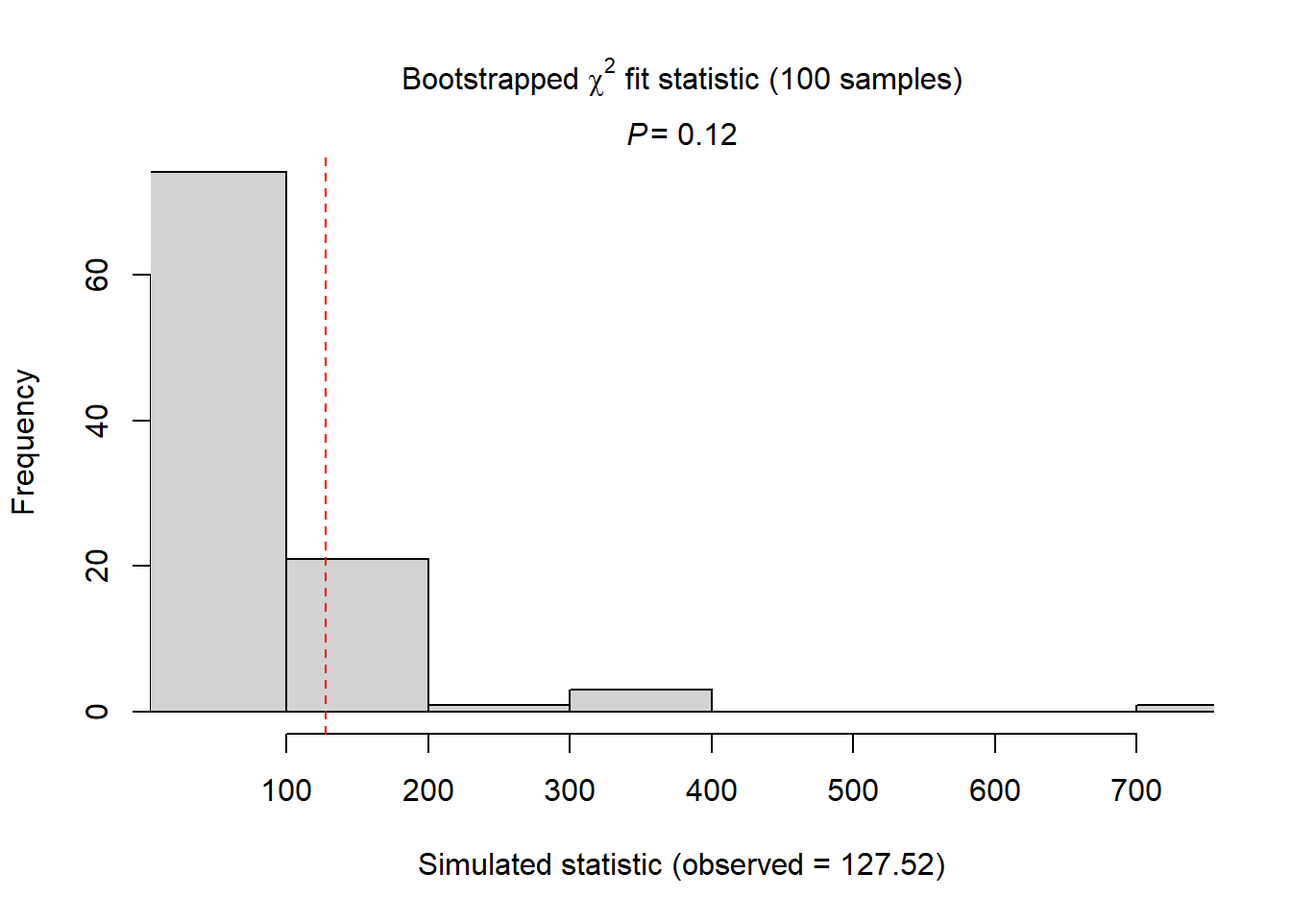
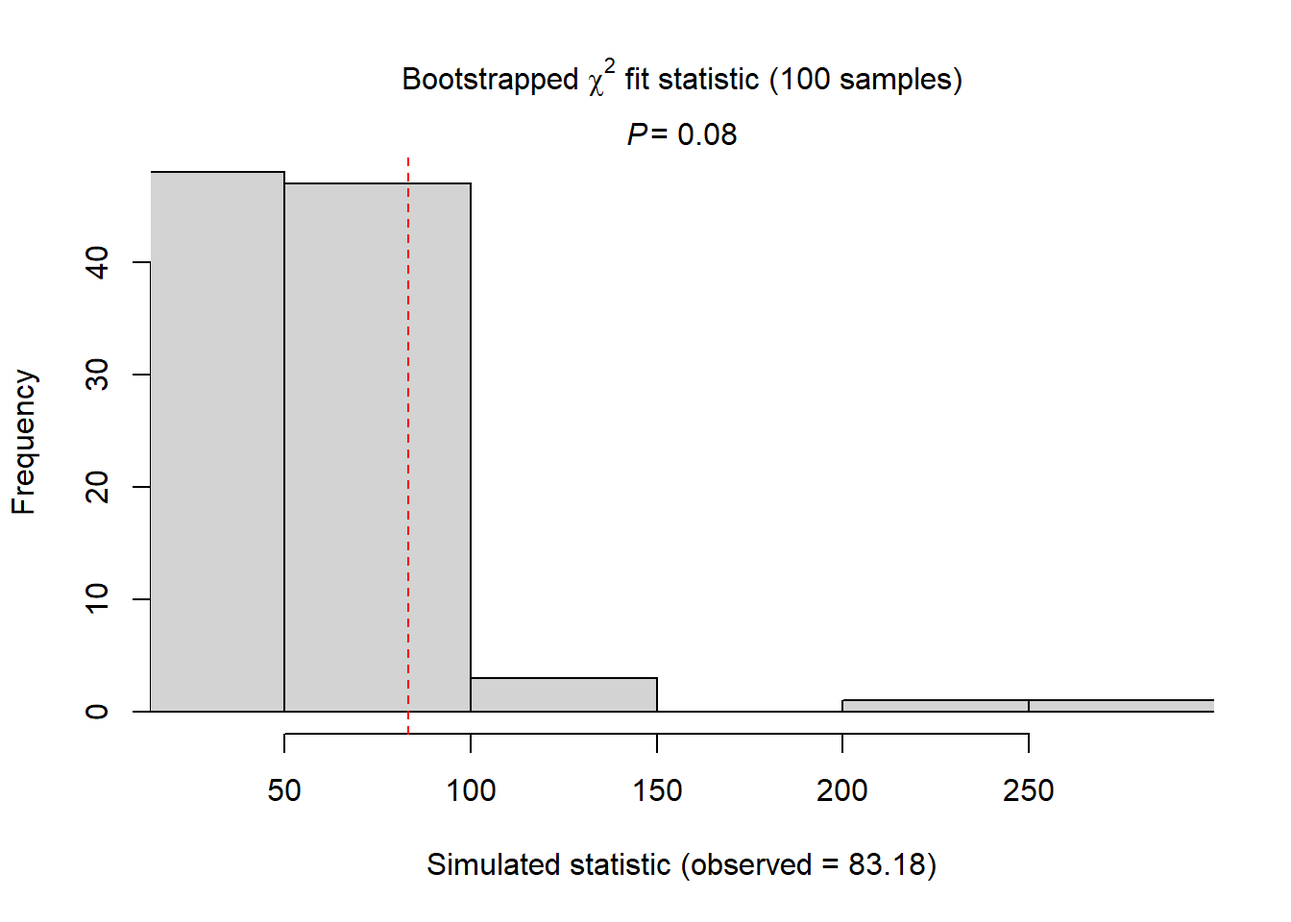
Cuatro

diff --git a/docs/Clase4.html b/docs/Clase4.html
@@ -120,7 +120,7 @@ pre > code.sourceCode > span > a:first-child::before { text-decoration: underlin
 <span id="cb2-5"><a href="#cb2-5" aria-hidden="true" tabindex="-1"></a>PaisajeMetricas <span class="ot">&lt;-</span> <span class="fu">readRDS</span>(<span class="st">"data/Paisaje250.rds"</span>)</span></code><button title="Copy to Clipboard" class="code-copy-button"><i class="bi"></i></button></pre></div>
 </div>
 <div class="tabset-margin-container"></div><div class="panel-tabset">
-<ul class="nav nav-tabs" role="tablist"><li class="nav-item" role="presentation"><a class="nav-link active" id="tabset-1-1-tab" data-bs-toggle="tab" data-bs-target="#tabset-1-1" role="tab" aria-controls="tabset-1-1" aria-selected="true" href="">Procesar base de datos</a></li><li class="nav-item" role="presentation"><a class="nav-link" id="tabset-1-2-tab" data-bs-toggle="tab" data-bs-target="#tabset-1-2" role="tab" aria-controls="tabset-1-2" aria-selected="false" href="">Agragar covariables de paisaje</a></li><li class="nav-item" role="presentation"><a class="nav-link" id="tabset-1-3-tab" data-bs-toggle="tab" data-bs-target="#tabset-1-3" role="tab" aria-controls="tabset-1-3" aria-selected="false" href="">Prepara data en formato unmarked</a></li><li class="nav-item" role="presentation"><a class="nav-link" id="tabset-1-4-tab" data-bs-toggle="tab" data-bs-target="#tabset-1-4" role="tab" aria-controls="tabset-1-4" aria-selected="false" href="">Fit model</a></li><li class="nav-item" role="presentation"><a class="nav-link" id="tabset-1-5-tab" data-bs-toggle="tab" data-bs-target="#tabset-1-5" role="tab" aria-controls="tabset-1-5" aria-selected="false" href="">Seleccionar modelo mas adecuado</a></li><li class="nav-item" role="presentation"><a class="nav-link" id="tabset-1-6-tab" data-bs-toggle="tab" data-bs-target="#tabset-1-6" role="tab" aria-controls="tabset-1-6" aria-selected="false" href="">Validar modelo</a></li><li class="nav-item" role="presentation"><a class="nav-link" id="tabset-1-7-tab" data-bs-toggle="tab" data-bs-target="#tabset-1-7" role="tab" aria-controls="tabset-1-7" aria-selected="false" href="">Revisar resultados</a></li><li class="nav-item" role="presentation"><a class="nav-link" id="tabset-1-8-tab" data-bs-toggle="tab" data-bs-target="#tabset-1-8" role="tab" aria-controls="tabset-1-8" aria-selected="false" href="">Prepara para graficar</a></li><li class="nav-item" role="presentation"><a class="nav-link" id="tabset-1-9-tab" data-bs-toggle="tab" data-bs-target="#tabset-1-9" role="tab" aria-controls="tabset-1-9" aria-selected="false" href="">Graficar</a></li></ul>
+<ul class="nav nav-tabs" role="tablist"><li class="nav-item" role="presentation"><a class="nav-link active" id="tabset-1-1-tab" data-bs-toggle="tab" data-bs-target="#tabset-1-1" role="tab" aria-controls="tabset-1-1" aria-selected="true" href="">Procesar base de datos</a></li><li class="nav-item" role="presentation"><a class="nav-link" id="tabset-1-2-tab" data-bs-toggle="tab" data-bs-target="#tabset-1-2" role="tab" aria-controls="tabset-1-2" aria-selected="false" href="">Agragar covariables de paisaje</a></li><li class="nav-item" role="presentation"><a class="nav-link" id="tabset-1-3-tab" data-bs-toggle="tab" data-bs-target="#tabset-1-3" role="tab" aria-controls="tabset-1-3" aria-selected="false" href="">Prepara data en formato unmarked</a></li><li class="nav-item" role="presentation"><a class="nav-link" id="tabset-1-4-tab" data-bs-toggle="tab" data-bs-target="#tabset-1-4" role="tab" aria-controls="tabset-1-4" aria-selected="false" href="">Fit model</a></li><li class="nav-item" role="presentation"><a class="nav-link" id="tabset-1-5-tab" data-bs-toggle="tab" data-bs-target="#tabset-1-5" role="tab" aria-controls="tabset-1-5" aria-selected="false" href="">Seleccionar modelo mas adecuado</a></li><li class="nav-item" role="presentation"><a class="nav-link" id="tabset-1-6-tab" data-bs-toggle="tab" data-bs-target="#tabset-1-6" role="tab" aria-controls="tabset-1-6" aria-selected="false" href="">Validar modelo</a></li><li class="nav-item" role="presentation"><a class="nav-link" id="tabset-1-7-tab" data-bs-toggle="tab" data-bs-target="#tabset-1-7" role="tab" aria-controls="tabset-1-7" aria-selected="false" href="">Revisar resultados</a></li><li class="nav-item" role="presentation"><a class="nav-link" id="tabset-1-8-tab" data-bs-toggle="tab" data-bs-target="#tabset-1-8" role="tab" aria-controls="tabset-1-8" aria-selected="false" href="">Prepara para graficar abundancia</a></li><li class="nav-item" role="presentation"><a class="nav-link" id="tabset-1-9-tab" data-bs-toggle="tab" data-bs-target="#tabset-1-9" role="tab" aria-controls="tabset-1-9" aria-selected="false" href="">Graficar</a></li></ul>
 <div class="tab-content">
 <div id="tabset-1-1" class="tab-pane active" role="tabpanel" aria-labelledby="tabset-1-1-tab">
 <div class="cell">
@@ -217,102 +217,78 @@ using the `.groups` argument.</code></pre>
 <span id="cb15-6"><a href="#cb15-6" aria-hidden="true" tabindex="-1"></a></span>
 <span id="cb15-7"><a href="#cb15-7" aria-hidden="true" tabindex="-1"></a>Insectivoras3<span class="sc">$</span>Longitud <span class="ot">&lt;-</span> <span class="fu">c</span>(<span class="dv">100</span>)</span>
 <span id="cb15-8"><a href="#cb15-8" aria-hidden="true" tabindex="-1"></a></span>
-<span id="cb15-9"><a href="#cb15-9" aria-hidden="true" tabindex="-1"></a>InsectivorasUMF <span class="ot">&lt;-</span> <span class="fu">unmarkedFrameDS</span>(<span class="at">y=</span> y ,</span>
+<span id="cb15-9"><a href="#cb15-9" aria-hidden="true" tabindex="-1"></a>InsectivorasUMF <span class="ot">&lt;-</span> <span class="fu">unmarkedFrameGDS</span>(<span class="at">y=</span> y ,</span>
 <span id="cb15-10"><a href="#cb15-10" aria-hidden="true" tabindex="-1"></a>                                   <span class="at">siteCovs =</span> SiteCovs,</span>
 <span id="cb15-11"><a href="#cb15-11" aria-hidden="true" tabindex="-1"></a>                                   <span class="at">dist.breaks =</span> <span class="fu">seq</span>(<span class="dv">0</span>, <span class="dv">35</span>, <span class="at">by=</span> <span class="dv">6</span>),</span>
 <span id="cb15-12"><a href="#cb15-12" aria-hidden="true" tabindex="-1"></a>                                   <span class="at">survey =</span> <span class="st">"line"</span>,</span>
 <span id="cb15-13"><a href="#cb15-13" aria-hidden="true" tabindex="-1"></a>                                   <span class="at">unitsIn =</span> <span class="st">"m"</span>,</span>
-<span id="cb15-14"><a href="#cb15-14" aria-hidden="true" tabindex="-1"></a>                                   <span class="at">tlength =</span> Insectivoras3<span class="sc">$</span>Longitud)</span></code><button title="Copy to Clipboard" class="code-copy-button"><i class="bi"></i></button></pre></div>
+<span id="cb15-14"><a href="#cb15-14" aria-hidden="true" tabindex="-1"></a>                                   <span class="at">tlength =</span> Insectivoras3<span class="sc">$</span>Longitud,</span>
+<span id="cb15-15"><a href="#cb15-15" aria-hidden="true" tabindex="-1"></a>                                   <span class="at">numPrimary =</span> <span class="dv">1</span>)</span></code><button title="Copy to Clipboard" class="code-copy-button"><i class="bi"></i></button></pre></div>
 </div>
 </div>
 <div id="tabset-1-4" class="tab-pane" role="tabpanel" aria-labelledby="tabset-1-4-tab">
 <div class="cell">
-<div class="sourceCode cell-code" id="cb16"><pre class="sourceCode r code-with-copy"><code class="sourceCode r"><span id="cb16-1"><a href="#cb16-1" aria-hidden="true" tabindex="-1"></a>fmp1 <span class="ot">&lt;-</span> <span class="fu">distsamp</span>(<span class="sc">~</span> <span class="dv">1</span> <span class="sc">~</span> <span class="dv">1</span>, InsectivorasUMF)</span>
+<div class="sourceCode cell-code" id="cb16"><pre class="sourceCode r code-with-copy"><code class="sourceCode r"><span id="cb16-1"><a href="#cb16-1" aria-hidden="true" tabindex="-1"></a>fmp1 <span class="ot">&lt;-</span> <span class="fu">gdistsamp</span>(<span class="sc">~</span>Forest, <span class="sc">~</span> <span class="dv">1</span>, <span class="sc">~</span> <span class="dv">1</span>, <span class="at">keyfun =</span> <span class="st">"halfnorm"</span>, <span class="at">output =</span> <span class="st">"density"</span>, <span class="at">unitsOut =</span> <span class="st">"ha"</span>,  InsectivorasUMF)</span>
 <span id="cb16-2"><a href="#cb16-2" aria-hidden="true" tabindex="-1"></a></span>
-<span id="cb16-3"><a href="#cb16-3" aria-hidden="true" tabindex="-1"></a>fmp2 <span class="ot">&lt;-</span> <span class="fu">distsamp</span>(<span class="sc">~</span> <span class="dv">1</span> <span class="sc">~</span> Forest, <span class="at">keyfun =</span> <span class="st">"halfnorm"</span>, <span class="at">output =</span> <span class="st">"density"</span>, <span class="at">unitsOut =</span> <span class="st">"ha"</span>,  InsectivorasUMF)</span></code><button title="Copy to Clipboard" class="code-copy-button"><i class="bi"></i></button></pre></div>
-<div class="cell-output cell-output-stderr">
-<pre><code>Warning: Some observations have been discarded because corresponding covariates
-were missing.</code></pre>
-</div>
-<div class="cell-output cell-output-stderr">
-<pre><code>Warning: 1 sites have been discarded because of missing data.</code></pre>
-</div>
-<div class="sourceCode cell-code" id="cb19"><pre class="sourceCode r code-with-copy"><code class="sourceCode r"><span id="cb19-1"><a href="#cb19-1" aria-hidden="true" tabindex="-1"></a>fmp3 <span class="ot">&lt;-</span> <span class="fu">distsamp</span>(<span class="sc">~</span> <span class="dv">1</span> <span class="sc">~</span> Forest, <span class="at">keyfun =</span> <span class="st">"hazard"</span>, <span class="at">output =</span> <span class="st">"density"</span>, <span class="at">unitsOut =</span> <span class="st">"ha"</span>, InsectivorasUMF)</span></code><button title="Copy to Clipboard" class="code-copy-button"><i class="bi"></i></button></pre></div>
-<div class="cell-output cell-output-stderr">
-<pre><code>Warning: Some observations have been discarded because corresponding covariates
-were missing.
-Warning: 1 sites have been discarded because of missing data.</code></pre>
-</div>
-<div class="sourceCode cell-code" id="cb21"><pre class="sourceCode r code-with-copy"><code class="sourceCode r"><span id="cb21-1"><a href="#cb21-1" aria-hidden="true" tabindex="-1"></a>fmp4 <span class="ot">&lt;-</span> <span class="fu">distsamp</span>(<span class="sc">~</span> <span class="dv">1</span> <span class="sc">~</span> Forest, <span class="at">keyfun =</span> <span class="st">"exp"</span>, <span class="at">output =</span> <span class="st">"density"</span>, <span class="at">unitsOut =</span> <span class="st">"ha"</span>, InsectivorasUMF)</span></code><button title="Copy to Clipboard" class="code-copy-button"><i class="bi"></i></button></pre></div>
-<div class="cell-output cell-output-stderr">
-<pre><code>Warning: Some observations have been discarded because corresponding covariates
-were missing.
-Warning: 1 sites have been discarded because of missing data.</code></pre>
-</div>
-<div class="sourceCode cell-code" id="cb23"><pre class="sourceCode r code-with-copy"><code class="sourceCode r"><span id="cb23-1"><a href="#cb23-1" aria-hidden="true" tabindex="-1"></a>fmp5 <span class="ot">&lt;-</span> <span class="fu">distsamp</span>(<span class="sc">~</span> <span class="dv">1</span> <span class="sc">~</span> Forest, <span class="at">keyfun =</span> <span class="st">"uniform"</span>, <span class="at">output =</span> <span class="st">"density"</span>, <span class="at">unitsOut =</span> <span class="st">"ha"</span>, InsectivorasUMF)</span></code><button title="Copy to Clipboard" class="code-copy-button"><i class="bi"></i></button></pre></div>
-<div class="cell-output cell-output-stderr">
-<pre><code>Warning: Some observations have been discarded because corresponding covariates
-were missing.
-Warning: 1 sites have been discarded because of missing data.</code></pre>
-</div>
+<span id="cb16-3"><a href="#cb16-3" aria-hidden="true" tabindex="-1"></a>fmp2 <span class="ot">&lt;-</span> <span class="fu">gdistsamp</span>(<span class="sc">~</span>Forest, <span class="sc">~</span> <span class="dv">1</span>, <span class="sc">~</span> <span class="dv">1</span>, <span class="at">keyfun =</span> <span class="st">"hazard"</span>, <span class="at">output =</span> <span class="st">"density"</span>, <span class="at">unitsOut =</span> <span class="st">"ha"</span>, InsectivorasUMF)</span>
+<span id="cb16-4"><a href="#cb16-4" aria-hidden="true" tabindex="-1"></a></span>
+<span id="cb16-5"><a href="#cb16-5" aria-hidden="true" tabindex="-1"></a>fmp3 <span class="ot">&lt;-</span> <span class="fu">gdistsamp</span>(<span class="sc">~</span>Forest, <span class="sc">~</span> <span class="dv">1</span>, <span class="sc">~</span> <span class="dv">1</span>, <span class="at">keyfun =</span> <span class="st">"exp"</span>, <span class="at">output =</span> <span class="st">"density"</span>, <span class="at">unitsOut =</span> <span class="st">"ha"</span>, InsectivorasUMF)</span></code><button title="Copy to Clipboard" class="code-copy-button"><i class="bi"></i></button></pre></div>
 </div>
 </div>
 <div id="tabset-1-5" class="tab-pane" role="tabpanel" aria-labelledby="tabset-1-5-tab">
 <div class="cell">
-<div class="sourceCode cell-code" id="cb25"><pre class="sourceCode r code-with-copy"><code class="sourceCode r"><span id="cb25-1"><a href="#cb25-1" aria-hidden="true" tabindex="-1"></a>Modelos <span class="ot">&lt;-</span> <span class="fu">list</span>(fmp1, fmp2, fmp3, fmp4, fmp5)</span>
-<span id="cb25-2"><a href="#cb25-2" aria-hidden="true" tabindex="-1"></a>Nombres <span class="ot">&lt;-</span> <span class="fu">c</span>(<span class="st">"fmp1"</span>, <span class="st">"fmp2"</span>, <span class="st">"fmp3"</span>, <span class="st">"fmp4"</span>, <span class="st">"fmp5"</span>)</span>
-<span id="cb25-3"><a href="#cb25-3" aria-hidden="true" tabindex="-1"></a></span>
-<span id="cb25-4"><a href="#cb25-4" aria-hidden="true" tabindex="-1"></a><span class="fu">aictab</span>(Modelos, Nombres, <span class="at">sort =</span> <span class="cn">TRUE</span>)</span></code><button title="Copy to Clipboard" class="code-copy-button"><i class="bi"></i></button></pre></div>
+<div class="sourceCode cell-code" id="cb17"><pre class="sourceCode r code-with-copy"><code class="sourceCode r"><span id="cb17-1"><a href="#cb17-1" aria-hidden="true" tabindex="-1"></a>Modelos <span class="ot">&lt;-</span> <span class="fu">list</span>(fmp1, fmp2, fmp3)</span>
+<span id="cb17-2"><a href="#cb17-2" aria-hidden="true" tabindex="-1"></a>Nombres <span class="ot">&lt;-</span> <span class="fu">c</span>(<span class="st">"fmp1"</span>, <span class="st">"fmp2"</span>, <span class="st">"fmp3"</span>)</span>
+<span id="cb17-3"><a href="#cb17-3" aria-hidden="true" tabindex="-1"></a></span>
+<span id="cb17-4"><a href="#cb17-4" aria-hidden="true" tabindex="-1"></a><span class="fu">aictab</span>(Modelos, Nombres, <span class="at">sort =</span> <span class="cn">TRUE</span>)</span></code><button title="Copy to Clipboard" class="code-copy-button"><i class="bi"></i></button></pre></div>
 <div class="cell-output cell-output-stdout">
 <pre><code>
 Model selection based on AICc:
 
-     K   AICc Delta_AICc AICcWt Cum.Wt     LL
-fmp2 3 113.03       0.00   0.56   0.56 -52.88
-fmp4 3 113.89       0.86   0.37   0.93 -53.31
-fmp3 4 117.22       4.19   0.07   1.00 -53.50
-fmp1 2 124.56      11.54   0.00   1.00 -59.98
-fmp5 2 145.26      32.23   0.00   1.00 -70.33</code></pre>
+     K  AICc Delta_AICc AICcWt Cum.Wt     LL
+fmp1 3 92.70       0.00   0.56   0.56 -42.72
+fmp3 3 93.56       0.86   0.37   0.93 -43.15
+fmp2 4 96.89       4.19   0.07   1.00 -43.33</code></pre>
 </div>
 </div>
 </div>
 <div id="tabset-1-6" class="tab-pane" role="tabpanel" aria-labelledby="tabset-1-6-tab">
 <div class="cell">
-<div class="sourceCode cell-code" id="cb27"><pre class="sourceCode r code-with-copy"><code class="sourceCode r"><span id="cb27-1"><a href="#cb27-1" aria-hidden="true" tabindex="-1"></a>fitstats <span class="ot">&lt;-</span> <span class="cf">function</span>(Mod_global2) {</span>
-<span id="cb27-2"><a href="#cb27-2" aria-hidden="true" tabindex="-1"></a>  observed <span class="ot">&lt;-</span> <span class="fu">getY</span>(Mod_global2<span class="sc">@</span>data)</span>
-<span id="cb27-3"><a href="#cb27-3" aria-hidden="true" tabindex="-1"></a>  expected <span class="ot">&lt;-</span> <span class="fu">fitted</span>(Mod_global2)</span>
-<span id="cb27-4"><a href="#cb27-4" aria-hidden="true" tabindex="-1"></a>  resids <span class="ot">&lt;-</span> <span class="fu">residuals</span>(Mod_global2)</span>
-<span id="cb27-5"><a href="#cb27-5" aria-hidden="true" tabindex="-1"></a>  sse <span class="ot">&lt;-</span> <span class="fu">sum</span>(resids<span class="sc">^</span><span class="dv">2</span>,<span class="at">na.rm=</span><span class="cn">TRUE</span>)</span>
-<span id="cb27-6"><a href="#cb27-6" aria-hidden="true" tabindex="-1"></a>  chisq <span class="ot">&lt;-</span> <span class="fu">sum</span>((observed <span class="sc">-</span> expected)<span class="sc">^</span><span class="dv">2</span> <span class="sc">/</span> expected,<span class="at">na.rm=</span><span class="cn">TRUE</span>)</span>
-<span id="cb27-7"><a href="#cb27-7" aria-hidden="true" tabindex="-1"></a>  freeTuke <span class="ot">&lt;-</span> <span class="fu">sum</span>((<span class="fu">sqrt</span>(observed) <span class="sc">-</span> <span class="fu">sqrt</span>(expected))<span class="sc">^</span><span class="dv">2</span>,<span class="at">na.rm=</span><span class="cn">TRUE</span>)</span>
-<span id="cb27-8"><a href="#cb27-8" aria-hidden="true" tabindex="-1"></a>  out <span class="ot">&lt;-</span> <span class="fu">c</span>(<span class="at">SSE=</span>sse, <span class="at">Chisq=</span>chisq, <span class="at">freemanTukey=</span>freeTuke)</span>
-<span id="cb27-9"><a href="#cb27-9" aria-hidden="true" tabindex="-1"></a>  <span class="fu">return</span>(out)</span>
-<span id="cb27-10"><a href="#cb27-10" aria-hidden="true" tabindex="-1"></a>}</span>
-<span id="cb27-11"><a href="#cb27-11" aria-hidden="true" tabindex="-1"></a></span>
-<span id="cb27-12"><a href="#cb27-12" aria-hidden="true" tabindex="-1"></a>(pb <span class="ot">&lt;-</span> <span class="fu">parboot</span>(fmp2, fitstats, <span class="at">nsim=</span><span class="dv">100</span>, <span class="at">report=</span><span class="dv">1</span>))</span></code><button title="Copy to Clipboard" class="code-copy-button"><i class="bi"></i></button></pre></div>
+<div class="sourceCode cell-code" id="cb19"><pre class="sourceCode r code-with-copy"><code class="sourceCode r"><span id="cb19-1"><a href="#cb19-1" aria-hidden="true" tabindex="-1"></a>fitstats <span class="ot">&lt;-</span> <span class="cf">function</span>(Mod_global2) {</span>
+<span id="cb19-2"><a href="#cb19-2" aria-hidden="true" tabindex="-1"></a>  observed <span class="ot">&lt;-</span> <span class="fu">getY</span>(Mod_global2<span class="sc">@</span>data)</span>
+<span id="cb19-3"><a href="#cb19-3" aria-hidden="true" tabindex="-1"></a>  expected <span class="ot">&lt;-</span> <span class="fu">fitted</span>(Mod_global2)</span>
+<span id="cb19-4"><a href="#cb19-4" aria-hidden="true" tabindex="-1"></a>  resids <span class="ot">&lt;-</span> <span class="fu">residuals</span>(Mod_global2)</span>
+<span id="cb19-5"><a href="#cb19-5" aria-hidden="true" tabindex="-1"></a>  sse <span class="ot">&lt;-</span> <span class="fu">sum</span>(resids<span class="sc">^</span><span class="dv">2</span>,<span class="at">na.rm=</span><span class="cn">TRUE</span>)</span>
+<span id="cb19-6"><a href="#cb19-6" aria-hidden="true" tabindex="-1"></a>  chisq <span class="ot">&lt;-</span> <span class="fu">sum</span>((observed <span class="sc">-</span> expected)<span class="sc">^</span><span class="dv">2</span> <span class="sc">/</span> expected,<span class="at">na.rm=</span><span class="cn">TRUE</span>)</span>
+<span id="cb19-7"><a href="#cb19-7" aria-hidden="true" tabindex="-1"></a>  freeTuke <span class="ot">&lt;-</span> <span class="fu">sum</span>((<span class="fu">sqrt</span>(observed) <span class="sc">-</span> <span class="fu">sqrt</span>(expected))<span class="sc">^</span><span class="dv">2</span>,<span class="at">na.rm=</span><span class="cn">TRUE</span>)</span>
+<span id="cb19-8"><a href="#cb19-8" aria-hidden="true" tabindex="-1"></a>  out <span class="ot">&lt;-</span> <span class="fu">c</span>(<span class="at">SSE=</span>sse, <span class="at">Chisq=</span>chisq, <span class="at">freemanTukey=</span>freeTuke)</span>
+<span id="cb19-9"><a href="#cb19-9" aria-hidden="true" tabindex="-1"></a>  <span class="fu">return</span>(out)</span>
+<span id="cb19-10"><a href="#cb19-10" aria-hidden="true" tabindex="-1"></a>}</span>
+<span id="cb19-11"><a href="#cb19-11" aria-hidden="true" tabindex="-1"></a></span>
+<span id="cb19-12"><a href="#cb19-12" aria-hidden="true" tabindex="-1"></a>(pb <span class="ot">&lt;-</span> <span class="fu">parboot</span>(fmp1, fitstats, <span class="at">nsim=</span><span class="dv">100</span>, <span class="at">report=</span><span class="dv">1</span>))</span></code><button title="Copy to Clipboard" class="code-copy-button"><i class="bi"></i></button></pre></div>
 <div class="cell-output cell-output-stdout">
 <pre><code>
-Call: parboot(object = fmp2, statistic = fitstats, nsim = 100, report = 1)
+Call: parboot(object = fmp1, statistic = fitstats, nsim = 100, report = 1)
 
 Parametric Bootstrap Statistics:
-                t0 mean(t0 - t_B) StdDev(t0 - t_B) Pr(t_B &gt; t0)
-SSE           51.2          27.36             8.10       0.0099
-Chisq        127.5          46.63            32.13       0.0495
-freemanTukey  22.5           4.55             2.95       0.0594
+               t0 mean(t0 - t_B) StdDev(t0 - t_B) Pr(t_B &gt; t0)
+SSE          57.6          25.97             9.23       0.0099
+Chisq        83.2          28.45            24.11       0.0495
+freemanTukey 31.2           5.57             3.82       0.0990
 
 t_B quantiles:
-               0% 2.5% 25% 50% 75% 97.5% 100%
-SSE           9.3   13  18  22  28    44   55
-Chisq        31.1   43  61  74  93   161  253
-freemanTukey 11.2   13  16  18  20    24   27
+             0% 2.5% 25% 50% 75% 97.5% 100%
+SSE          16   18  24  31  39    52   58
+Chisq        28   34  43  51  62    94  246
+freemanTukey 15   19  23  25  28    34   35
 
 t0 = Original statistic computed from data
 t_B = Vector of bootstrap samples</code></pre>
 </div>
-<div class="sourceCode cell-code" id="cb29"><pre class="sourceCode r code-with-copy"><code class="sourceCode r"><span id="cb29-1"><a href="#cb29-1" aria-hidden="true" tabindex="-1"></a>cHat_pb <span class="ot">&lt;-</span> pb<span class="sc">@</span>t0[<span class="dv">2</span>] <span class="sc">/</span> <span class="fu">mean</span>(pb<span class="sc">@</span>t.star[,<span class="dv">2</span>])</span>
-<span id="cb29-2"><a href="#cb29-2" aria-hidden="true" tabindex="-1"></a></span>
-<span id="cb29-3"><a href="#cb29-3" aria-hidden="true" tabindex="-1"></a></span>
-<span id="cb29-4"><a href="#cb29-4" aria-hidden="true" tabindex="-1"></a>MigGOF <span class="ot">&lt;-</span> <span class="fu">Nmix.gof.test</span>(fmp2, <span class="at">nsim =</span> <span class="dv">100</span>, <span class="at">report =</span> <span class="dv">3</span>)</span></code><button title="Copy to Clipboard" class="code-copy-button"><i class="bi"></i></button></pre></div>
+<div class="sourceCode cell-code" id="cb21"><pre class="sourceCode r code-with-copy"><code class="sourceCode r"><span id="cb21-1"><a href="#cb21-1" aria-hidden="true" tabindex="-1"></a>cHat_pb <span class="ot">&lt;-</span> pb<span class="sc">@</span>t0[<span class="dv">2</span>] <span class="sc">/</span> <span class="fu">mean</span>(pb<span class="sc">@</span>t.star[,<span class="dv">2</span>])</span>
+<span id="cb21-2"><a href="#cb21-2" aria-hidden="true" tabindex="-1"></a></span>
+<span id="cb21-3"><a href="#cb21-3" aria-hidden="true" tabindex="-1"></a></span>
+<span id="cb21-4"><a href="#cb21-4" aria-hidden="true" tabindex="-1"></a>MigGOF <span class="ot">&lt;-</span> <span class="fu">Nmix.gof.test</span>(fmp1, <span class="at">nsim =</span> <span class="dv">100</span>, <span class="at">report =</span> <span class="dv">3</span>)</span></code><button title="Copy to Clipboard" class="code-copy-button"><i class="bi"></i></button></pre></div>
 <div class="cell-output-display">
 <div>
 <figure class="figure">
@@ -324,14 +300,15 @@ t_B = Vector of bootstrap samples</code></pre>
 </div>
 <div id="tabset-1-7" class="tab-pane" role="tabpanel" aria-labelledby="tabset-1-7-tab">
 <div class="cell">
-<div class="sourceCode cell-code" id="cb30"><pre class="sourceCode r code-with-copy"><code class="sourceCode r"><span id="cb30-1"><a href="#cb30-1" aria-hidden="true" tabindex="-1"></a><span class="fu">summary</span>(fmp2)</span></code><button title="Copy to Clipboard" class="code-copy-button"><i class="bi"></i></button></pre></div>
+<div class="sourceCode cell-code" id="cb22"><pre class="sourceCode r code-with-copy"><code class="sourceCode r"><span id="cb22-1"><a href="#cb22-1" aria-hidden="true" tabindex="-1"></a><span class="fu">summary</span>(fmp1)</span></code><button title="Copy to Clipboard" class="code-copy-button"><i class="bi"></i></button></pre></div>
 <div class="cell-output cell-output-stdout">
 <pre><code>
 Call:
-distsamp(formula = ~1 ~ Forest, data = InsectivorasUMF, keyfun = "halfnorm", 
-    output = "density", unitsOut = "ha")
+gdistsamp(lambdaformula = ~Forest, phiformula = ~1, pformula = ~1, 
+    data = InsectivorasUMF, keyfun = "halfnorm", output = "density", 
+    unitsOut = "ha")
 
-Density (log-scale):
+Abundance (log-scale):
             Estimate     SE     z  P(&gt;|z|)
 (Intercept)    2.655 0.4573  5.81 6.38e-09
 Forest        -0.128 0.0686 -1.87 6.21e-02
@@ -340,56 +317,41 @@ Detection (log-scale):
  Estimate   SE  z  P(&gt;|z|)
      1.95 0.15 13 1.84e-38
 
-AIC: 111.7647 
+AIC: 91.43912 
 Number of sites: 22
 ID of sites removed due to NA: 6
 optim convergence code: 0
 optim iterations: 29 
-Bootstrap iterations: 0 
-
-Survey design: line-transect
-Detection function: halfnorm
-UnitsIn: m
-UnitsOut: ha </code></pre>
+Bootstrap iterations: 0 </code></pre>
 </div>
-<div class="sourceCode cell-code" id="cb32"><pre class="sourceCode r code-with-copy"><code class="sourceCode r"><span id="cb32-1"><a href="#cb32-1" aria-hidden="true" tabindex="-1"></a><span class="fu">confint</span>(fmp2, <span class="at">type =</span> <span class="st">"state"</span>, <span class="at">level=</span> <span class="fl">0.95</span>)</span></code><button title="Copy to Clipboard" class="code-copy-button"><i class="bi"></i></button></pre></div>
+<div class="sourceCode cell-code" id="cb24"><pre class="sourceCode r code-with-copy"><code class="sourceCode r"><span id="cb24-1"><a href="#cb24-1" aria-hidden="true" tabindex="-1"></a><span class="fu">confint</span>(fmp1, <span class="at">type =</span> <span class="st">"lambda"</span>, <span class="at">level=</span> <span class="fl">0.95</span>)</span></code><button title="Copy to Clipboard" class="code-copy-button"><i class="bi"></i></button></pre></div>
 <div class="cell-output cell-output-stdout">
-<pre><code>                 0.025       0.975
-lam(Int)     1.7590516 3.551649571
-lam(Forest) -0.2622657 0.006459997</code></pre>
+<pre><code>                    0.025       0.975
+lambda(Int)     1.7590516 3.551649572
+lambda(Forest) -0.2622657 0.006459997</code></pre>
 </div>
-<div class="sourceCode cell-code" id="cb34"><pre class="sourceCode r code-with-copy"><code class="sourceCode r"><span id="cb34-1"><a href="#cb34-1" aria-hidden="true" tabindex="-1"></a><span class="fu">exp</span>(<span class="fu">coef</span>(fmp2, <span class="at">type=</span><span class="st">"state"</span>, <span class="at">altNames=</span><span class="cn">TRUE</span>))</span></code><button title="Copy to Clipboard" class="code-copy-button"><i class="bi"></i></button></pre></div>
+<div class="sourceCode cell-code" id="cb26"><pre class="sourceCode r code-with-copy"><code class="sourceCode r"><span id="cb26-1"><a href="#cb26-1" aria-hidden="true" tabindex="-1"></a><span class="fu">exp</span>(<span class="fu">coef</span>(fmp1, <span class="at">type=</span><span class="st">"lambda"</span>, <span class="at">altNames=</span><span class="cn">TRUE</span>))</span></code><button title="Copy to Clipboard" class="code-copy-button"><i class="bi"></i></button></pre></div>
 <div class="cell-output cell-output-stdout">
-<pre><code>   lam(Int) lam(Forest) 
- 14.2299743   0.8799389 </code></pre>
-</div>
-<div class="sourceCode cell-code" id="cb36"><pre class="sourceCode r code-with-copy"><code class="sourceCode r"><span id="cb36-1"><a href="#cb36-1" aria-hidden="true" tabindex="-1"></a><span class="fu">hist</span>(fmp2, <span class="at">ylim =</span> <span class="fu">c</span>(<span class="dv">0</span>, <span class="fl">0.1</span>), <span class="at">xlab=</span><span class="st">"Distance (m)"</span>)   <span class="co"># Only works when there are no det covars</span></span></code><button title="Copy to Clipboard" class="code-copy-button"><i class="bi"></i></button></pre></div>
-<div class="cell-output-display">
-<div>
-<figure class="figure">
-<p><img src="Clase4_files/figure-html/unnamed-chunk-11-1.png" class="img-fluid figure-img" width="672"></p>
-</figure>
-</div>
+<pre><code>   lambda(Int) lambda(Forest) 
+    14.2299743      0.8799389 </code></pre>
 </div>
 </div>
 </div>
 <div id="tabset-1-8" class="tab-pane" role="tabpanel" aria-labelledby="tabset-1-8-tab">
 <div class="cell">
-<div class="sourceCode cell-code" id="cb37"><pre class="sourceCode r code-with-copy"><code class="sourceCode r"><span id="cb37-1"><a href="#cb37-1" aria-hidden="true" tabindex="-1"></a>Forest <span class="ot">&lt;-</span> <span class="fu">data.frame</span>(<span class="at">Forest =</span> <span class="fu">seq</span>(<span class="fu">min</span>(Insectivoras3<span class="sc">$</span>Forest, <span class="at">na.rm =</span> <span class="cn">TRUE</span>), <span class="fu">max</span>(Insectivoras3<span class="sc">$</span>Forest, <span class="at">na.rm =</span> <span class="cn">TRUE</span>), <span class="at">length.out =</span> <span class="dv">100</span>))</span>
-<span id="cb37-2"><a href="#cb37-2" aria-hidden="true" tabindex="-1"></a></span>
-<span id="cb37-3"><a href="#cb37-3" aria-hidden="true" tabindex="-1"></a>Forest_pre <span class="ot">&lt;-</span> <span class="fu">predict</span>(fmp2, <span class="at">newdata =</span> Forest, <span class="at">type =</span> <span class="st">"state"</span>)</span>
-<span id="cb37-4"><a href="#cb37-4" aria-hidden="true" tabindex="-1"></a></span>
-<span id="cb37-5"><a href="#cb37-5" aria-hidden="true" tabindex="-1"></a>Forest_pre<span class="sc">$</span>Forest <span class="ot">&lt;-</span> Forest<span class="sc">$</span>Forest</span></code><button title="Copy to Clipboard" class="code-copy-button"><i class="bi"></i></button></pre></div>
+<div class="sourceCode cell-code" id="cb28"><pre class="sourceCode r code-with-copy"><code class="sourceCode r"><span id="cb28-1"><a href="#cb28-1" aria-hidden="true" tabindex="-1"></a>Forest <span class="ot">&lt;-</span> <span class="fu">data.frame</span>(<span class="at">Forest =</span> <span class="fu">seq</span>(<span class="fu">min</span>(Insectivoras3<span class="sc">$</span>Forest, <span class="at">na.rm =</span> <span class="cn">TRUE</span>), <span class="fu">max</span>(Insectivoras3<span class="sc">$</span>Forest, <span class="at">na.rm =</span> <span class="cn">TRUE</span>), <span class="at">length.out =</span> <span class="dv">100</span>))</span>
+<span id="cb28-2"><a href="#cb28-2" aria-hidden="true" tabindex="-1"></a></span>
+<span id="cb28-3"><a href="#cb28-3" aria-hidden="true" tabindex="-1"></a>Forest_pre <span class="ot">&lt;-</span> <span class="fu">predict</span>(fmp2, <span class="at">newdata =</span> Forest, <span class="at">type =</span> <span class="st">"lambda"</span>, <span class="at">appendData =</span> <span class="cn">TRUE</span>)</span></code><button title="Copy to Clipboard" class="code-copy-button"><i class="bi"></i></button></pre></div>
 </div>
 </div>
 <div id="tabset-1-9" class="tab-pane" role="tabpanel" aria-labelledby="tabset-1-9-tab">
 <div class="cell">
-<div class="sourceCode cell-code" id="cb38"><pre class="sourceCode r code-with-copy"><code class="sourceCode r"><span id="cb38-1"><a href="#cb38-1" aria-hidden="true" tabindex="-1"></a><span class="fu">ggplot</span>(<span class="at">data =</span> Forest_pre, <span class="fu">aes</span>(<span class="at">x=</span> Forest, <span class="at">y=</span> Predicted))<span class="sc">+</span></span>
-<span id="cb38-2"><a href="#cb38-2" aria-hidden="true" tabindex="-1"></a>  <span class="fu">geom_ribbon</span>(<span class="fu">aes</span>(<span class="at">ymin =</span> lower, <span class="at">ymax=</span> upper),</span>
-<span id="cb38-3"><a href="#cb38-3" aria-hidden="true" tabindex="-1"></a>              <span class="at">fill =</span> <span class="st">"lightblue"</span>, <span class="at">alpha =</span> <span class="fl">0.4</span>)<span class="sc">+</span></span>
-<span id="cb38-4"><a href="#cb38-4" aria-hidden="true" tabindex="-1"></a>  <span class="fu">geom_line</span>()<span class="sc">+</span></span>
-<span id="cb38-5"><a href="#cb38-5" aria-hidden="true" tabindex="-1"></a>  <span class="fu">labs</span>(<span class="at">title =</span> <span class="st">"Abundancia de Insectivoros versus fecha"</span>)<span class="sc">+</span></span>
-<span id="cb38-6"><a href="#cb38-6" aria-hidden="true" tabindex="-1"></a>  <span class="fu">theme_classic</span>()</span></code><button title="Copy to Clipboard" class="code-copy-button"><i class="bi"></i></button></pre></div>
+<div class="sourceCode cell-code" id="cb29"><pre class="sourceCode r code-with-copy"><code class="sourceCode r"><span id="cb29-1"><a href="#cb29-1" aria-hidden="true" tabindex="-1"></a><span class="fu">ggplot</span>(<span class="at">data =</span> Forest_pre, <span class="fu">aes</span>(<span class="at">x=</span> Forest, <span class="at">y=</span> Predicted))<span class="sc">+</span></span>
+<span id="cb29-2"><a href="#cb29-2" aria-hidden="true" tabindex="-1"></a>  <span class="fu">geom_ribbon</span>(<span class="fu">aes</span>(<span class="at">ymin =</span> lower, <span class="at">ymax=</span> upper),</span>
+<span id="cb29-3"><a href="#cb29-3" aria-hidden="true" tabindex="-1"></a>              <span class="at">fill =</span> <span class="st">"lightblue"</span>, <span class="at">alpha =</span> <span class="fl">0.4</span>)<span class="sc">+</span></span>
+<span id="cb29-4"><a href="#cb29-4" aria-hidden="true" tabindex="-1"></a>  <span class="fu">geom_line</span>()<span class="sc">+</span></span>
+<span id="cb29-5"><a href="#cb29-5" aria-hidden="true" tabindex="-1"></a>  <span class="fu">labs</span>(<span class="at">title =</span> <span class="st">"Abundancia de Insectivoros versus fecha"</span>)<span class="sc">+</span></span>
+<span id="cb29-6"><a href="#cb29-6" aria-hidden="true" tabindex="-1"></a>  <span class="fu">theme_classic</span>()</span></code><button title="Copy to Clipboard" class="code-copy-button"><i class="bi"></i></button></pre></div>
 <div class="cell-output-display">
 <div>
 <figure class="figure">
